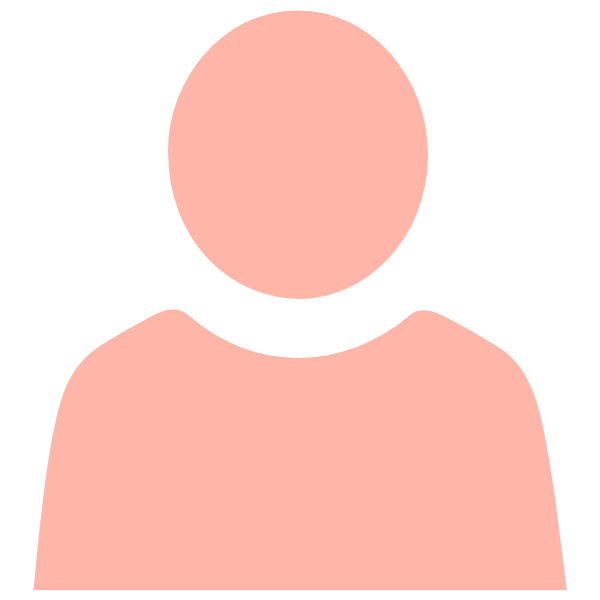
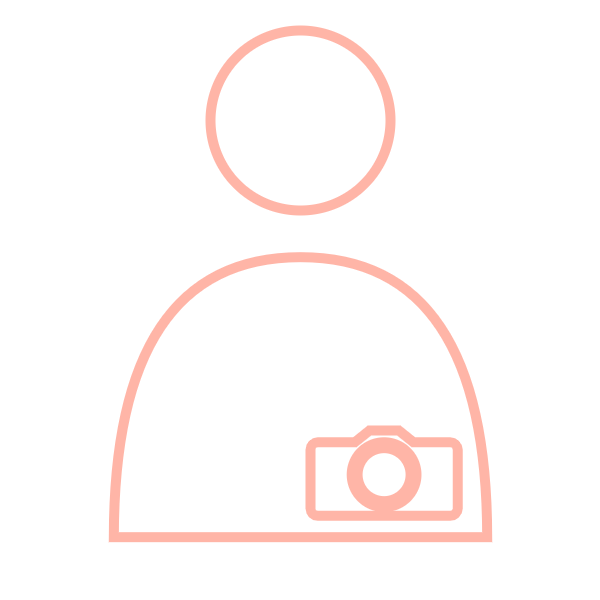
Update visitor mode image

diff --git a/app/AppPhoto/screens/VisitorPage.js b/app/AppPhoto/screens/VisitorPage.js
@@ -19,7 +19,6 @@ function VisitorPage({route, navigation}){
                             .then((responsesJson) => Promise.all(responsesJson.map(responseJson => lasts.push(responseJson[0])))
                                 .then(() => setLastResearch(lasts))
                                 .then(() => setLastResearchUpdated(true))
-                                .then(() => console.log(lastResearch))
                             )
                         )
                 })
@@ -28,7 +27,7 @@ function VisitorPage({route, navigation}){
 
     return (
         <View
-            style={{margin: 10, backgroundColor: '#f8edeb'}}
+            style={{padding: 10, backgroundColor: '#f8edeb', height: '100%'}}
         >
             {/* Header */}
             <View style={{alignItems: "center", height:50}}>
@@ -67,11 +66,19 @@ function VisitorPage({route, navigation}){
                 )}
             />
 
-            <Image
-                source={{uri:urlAPI+'/resources/visitorNotLogged'}}
-                style={styles.imageNotLogged}
-            />
-
+            <View
+                style={styles.viewVisitorMode}
+            >
+                <Image
+                    source={{uri:urlAPI+'/resources/visitorNotLogged.png'}}
+                    style={styles.imageNotLogged}
+                />
+                <Text
+                    style={styles.textVisitor}
+                >
+                    Visitor mode
+                </Text>
+            </View>
         </View>
     )
 }
@@ -110,8 +117,23 @@ const styles = StyleSheet.create({
         fontSize: 20,
     },
 
+    viewVisitorMode: {
+        marginBottom: 50,
+    },  
+
     imageNotLogged: {
-        
+        alignSelf: 'center',
+        marginBottom: 0,
+        height: 300,
+        aspectRatio: 1,
+        opacity: 0.5
+    },
+
+    textVisitor: {
+        marginTop: -25,
+        color: '#ffb5a7',
+        fontSize: 20,
+        alignSelf: 'center'
     }
 })
 
